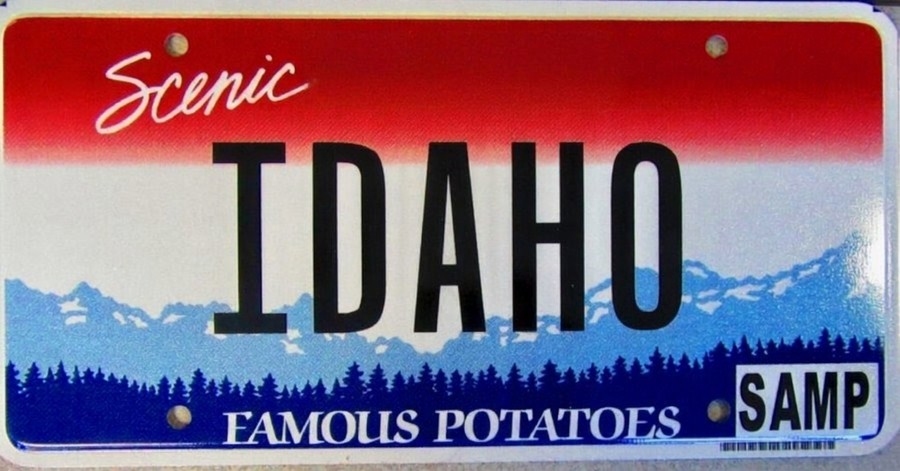
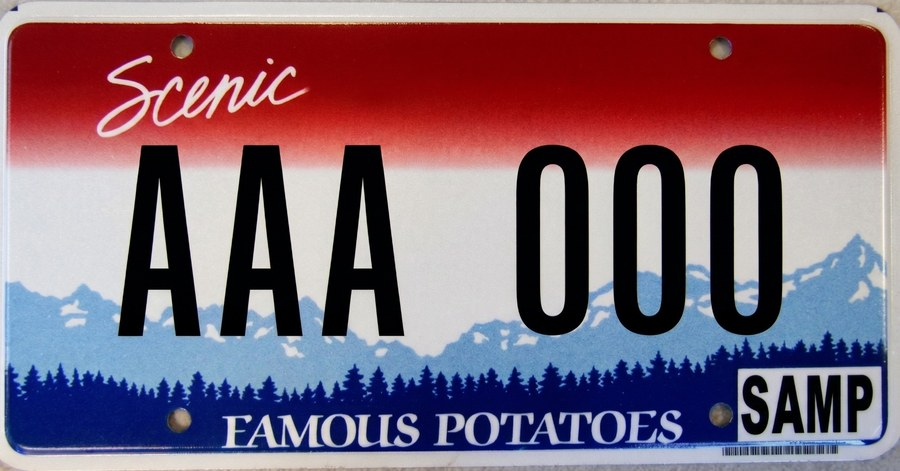
[nojira] Plate quiz: remove duplicate plate variants, add yellow New Mexico and red Colorado plates, and replace low-quality Idaho, California, Texas, Indiana and Wyoming images.

diff --git a/plates/data.js b/plates/data.js
@@ -3,22 +3,20 @@ const PLATES = [
   {"state": "Alabama", "img": "img/alabama-2.jpg", "credit": "Plate image from LearnableMeta map \"A Learnable USA - License Plates\" (Vincent Skerved; images/descriptions from plonkit.net), license not stated, https://learnablemeta.com/maps/676c62e2f11f44713bb8a065 | Blurred image: generated from the image above (Gaussian blur)", "blurImg": "img/blur/alabama-2.jpg", "label": "Sweet Home Alabama", "nameless": "img/nl/alabama-2.jpg"},
   {"state": "Alaska", "img": "img/alaska.jpg", "credit": "Zcarstvnz, CC BY-SA 4.0, https://commons.wikimedia.org/wiki/File:Alaska_2020_License_Plate.jpg | Blurred image: generated from the image above (Gaussian blur)", "blurImg": "img/blur/alaska.jpg", "nameless": "img/nl/alaska.jpg", "primary": true},
   {"state": "Arizona", "img": "img/arizona.jpg", "credit": "SuperSonic337, CC0, https://commons.wikimedia.org/wiki/File:CWX9081.jpg | Blurred image: generated from the image above (Gaussian blur)", "blurImg": "img/blur/arizona.jpg", "label": "Current Grand Canyon State", "nameless": "img/nl/arizona.jpg", "primary": true},
-  {"state": "Arizona", "img": "img/arizona-2.jpg", "credit": "Dax44, CC BY 4.0, https://commons.wikimedia.org/wiki/File:2005_Arizona_License_Plate.png | Blurred image: generated from the image above (Gaussian blur)", "blurImg": "img/blur/arizona-2.jpg", "label": "2000s design", "nameless": "img/nl/arizona-2.jpg"},
   {"state": "Arkansas", "img": "img/arkansas.jpg", "credit": "SuperSonic337, CC0, https://commons.wikimedia.org/wiki/File:Arkansas_2011_license_plate.jpg | Blurred image: generated from the image above (Gaussian blur)", "blurImg": "img/blur/arkansas.jpg", "nameless": "img/nl/arkansas.jpg", "primary": true},
   {"state": "California", "img": "img/california.jpg", "credit": "Zcarstvnz, CC BY-SA 4.0, https://commons.wikimedia.org/wiki/File:California_2018_License_Plate.jpg | Blurred image: generated from the image above (Gaussian blur)", "blurImg": "img/blur/california.jpg", "label": "Current standard", "nameless": "img/nl/california.jpg", "primary": true},
   {"state": "California", "img": "img/california-2.jpg", "credit": "State of California DMV, Public domain, https://commons.wikimedia.org/wiki/File:August_1985_Californian_license_plate,_2BJX782.png | Blurred image: generated from the image above (Gaussian blur)", "blurImg": "img/blur/california-2.jpg", "label": "1980s design", "nameless": "img/nl/california-2.jpg"},
   {"state": "California", "img": "img/california-3.jpg", "credit": "Jeff d kirby, CC BY-SA 4.0, https://commons.wikimedia.org/wiki/File:California_2016_legacy_license_plate.jpg | Blurred image: generated from the image above (Gaussian blur)", "blurImg": "img/blur/california-3.jpg", "label": "Legacy black", "nameless": "img/nl/california-3.jpg"},
   {"state": "Colorado", "img": "img/colorado.jpg", "credit": "CA81enjoyer, CC BY 4.0, https://commons.wikimedia.org/wiki/File:Colorado_2018_License_Plate.jpg | Blurred image: generated from the image above (Gaussian blur)", "blurImg": "img/blur/colorado.jpg", "label": "Mountain design", "nameless": "img/nl/colorado.jpg", "primary": true},
   {"state": "Colorado", "img": "img/colorado-2.jpg", "credit": "Author not listed, CC0, https://commons.wikimedia.org/wiki/File:Colorado%27s_Sesquicentennial_Over_13_License_Plate_Winner.png | Blurred image: generated from the image above (Gaussian blur)", "blurImg": "img/blur/colorado-2.jpg", "label": "2026 Sesquicentennial", "nameless": "img/nl/colorado-2.jpg"},
+  {"state": "Colorado", "img": "img/colorado-3.jpg", "credit": "Bench999, CC0, https://commons.wikimedia.org/wiki/File:Colorado_Apportioned_Truck_license_plate.png | Blurred image: generated from the image above (Gaussian blur) | Edited: the state name was removed from the nameless version.", "blurImg": "img/blur/colorado-3.jpg", "label": "Red commercial (apportioned truck)", "nameless": "img/nl/colorado-3.jpg"},
   {"state": "Connecticut", "img": "img/connecticut.jpg", "credit": "David Nicholson, CC BY-SA 4.0, https://commons.wikimedia.org/wiki/File:2013_Connecticut_license_plate.jpg | Blurred image: generated from the image above (Gaussian blur)", "blurImg": "img/blur/connecticut.jpg", "nameless": "img/nl/connecticut.jpg", "primary": true},
   {"state": "Delaware", "img": "img/delaware.jpg", "credit": "Lieutenant Ramathorn, Public domain, https://commons.wikimedia.org/wiki/File:2013_Delaware_license_plate_122222.jpg | Blurred image: generated from the image above (Gaussian blur)", "blurImg": "img/blur/delaware.jpg", "nameless": "img/nl/delaware.jpg", "primary": true},
-  {"state": "Florida", "img": "img/florida.jpg", "credit": "Dickelbers, CC BY-SA 4.0, https://commons.wikimedia.org/wiki/File:2018_Florida_license_plate_IYT_E32.jpg | Blurred image: generated from the image above (Gaussian blur)", "blurImg": "img/blur/florida.jpg", "label": "MYFLORIDA.COM design", "nameless": "img/nl/florida.jpg"},
-  {"state": "Florida", "img": "img/florida-2.jpg", "credit": "Spixelic, CC0, https://commons.wikimedia.org/wiki/File:Florida_License_Plate_2026-present.jpg | Blurred image: generated from the image above (Gaussian blur)", "blurImg": "img/blur/florida-2.jpg", "label": "2026 design", "nameless": "img/nl/florida-2.jpg", "primary": true},
+  {"state": "Florida", "img": "img/florida.jpg", "credit": "Dickelbers, CC BY-SA 4.0, https://commons.wikimedia.org/wiki/File:2018_Florida_license_plate_IYT_E32.jpg | Blurred image: generated from the image above (Gaussian blur)", "blurImg": "img/blur/florida.jpg", "label": "MYFLORIDA.COM design", "nameless": "img/nl/florida.jpg", "primary": true},
   {"state": "Florida", "img": "img/florida-3.jpg", "credit": "Zulspl8page, CC BY-SA 4.0, https://commons.wikimedia.org/wiki/File:2006_Florida_license_plate_W71_GJF.jpg | Blurred image: generated from the image above (Gaussian blur)", "blurImg": "img/blur/florida-3.jpg", "label": "2000s orange design", "nameless": "img/nl/florida-3.jpg"},
   {"state": "Georgia", "img": "img/georgia.jpg", "credit": "Popcornpal, Public domain, https://commons.wikimedia.org/wiki/File:2024_Georgian_license_plate_(TDA9755).jpg | Blurred image: generated from the image above (Gaussian blur)", "blurImg": "img/blur/georgia.jpg", "label": "Current standard", "nameless": "img/nl/georgia.jpg", "primary": true},
   {"state": "Georgia", "img": "img/georgia-2.jpg", "credit": "Jaycarlcooper, CC BY-SA 3.0, https://commons.wikimedia.org/wiki/File:2011_Georgia_license_plate_BGY_2780.jpg | Blurred image: generated from the image above (Gaussian blur)", "blurImg": "img/blur/georgia-2.jpg", "label": "Georgia.gov (2010s)", "nameless": "img/nl/georgia-2.jpg"},
-  {"state": "Hawaii", "img": "img/hawaii.jpg", "credit": "Zcarstvnz, CC BY-SA 4.0, https://commons.wikimedia.org/wiki/File:Hawaii_2015_license_plate.png | Blurred image: generated from the image above (Gaussian blur)", "blurImg": "img/blur/hawaii.jpg", "label": "Rainbow", "nameless": "img/nl/hawaii.jpg"},
-  {"state": "Hawaii", "img": "img/hawaii-2.jpg", "credit": "Hawaiian DMV, Public domain, https://commons.wikimedia.org/wiki/File:Hawaiian_sample_license_plate,_2025.png | Blurred image: generated from the image above (Gaussian blur)", "blurImg": "img/blur/hawaii-2.jpg", "label": "2025 design", "nameless": "img/nl/hawaii-2.jpg", "primary": true},
+  {"state": "Hawaii", "img": "img/hawaii.jpg", "credit": "Hawaiian DMV, Public domain, https://commons.wikimedia.org/wiki/File:Hawaiian_sample_license_plate,_2025.png | Blurred image: generated from the image above (Gaussian blur)", "blurImg": "img/blur/hawaii.jpg", "label": "2025 design", "nameless": "img/nl/hawaii.jpg", "primary": true},
   {"state": "Idaho", "img": "img/idaho.jpg", "credit": "IDT, CC0, https://commons.wikimedia.org/wiki/File:Idaho_Sample_Plate.jpg | Blurred image: generated from the image above (Gaussian blur)", "blurImg": "img/blur/idaho.jpg", "nameless": "img/nl/idaho.jpg", "primary": true},
   {"state": "Illinois", "img": "img/illinois.jpg", "credit": "SaltyCruton, CC0, https://commons.wikimedia.org/wiki/File:2017_Illinois_License_Plate.png | Blurred image: generated from the image above (Gaussian blur)", "blurImg": "img/blur/illinois.jpg", "label": "Current Land of Lincoln", "nameless": "img/nl/illinois.jpg", "primary": true},
   {"state": "Illinois", "img": "img/illinois-2.jpg", "credit": "Tholle33, CC0, https://commons.wikimedia.org/wiki/File:Illinois_2017_Six_Digit_License_Plate.jpg | Blurred image: generated from the image above (Gaussian blur)", "blurImg": "img/blur/illinois-2.jpg", "label": "Older With God design", "nameless": "img/nl/illinois-2.jpg"},
@@ -49,9 +47,8 @@ const PLATES = [
   {"state": "New Jersey", "img": "img/new-jersey.jpg", "credit": "Thankful to be me 515, CC BY-SA 4.0, https://commons.wikimedia.org/wiki/File:New_Jersey_license_plate_2014.jpg | Blurred image: generated from the image above (Gaussian blur)", "blurImg": "img/blur/new-jersey.jpg", "label": "Garden State", "nameless": "img/nl/new-jersey.jpg", "primary": true},
   {"state": "New Jersey", "img": "img/new-jersey-2.jpg", "credit": "Famartin, CC BY-SA 4.0, https://commons.wikimedia.org/wiki/File:2024-12-30_11_24_41_A_very_old_New_Jersey_license_plate_on_a_car_along_Perry_Drive_in_the_Mountainview_section_of_Ewing_Township,_Mercer_County,_New_Jersey.jpg | Blurred image: generated from the image above (Gaussian blur)", "blurImg": "img/blur/new-jersey-2.jpg", "label": "Older cream design", "nameless": "img/nl/new-jersey-2.jpg"},
   {"state": "New Mexico", "img": "img/new-mexico.jpg", "credit": "DodgeCaravan17, CC BY-SA 4.0, https://commons.wikimedia.org/wiki/File:2019_New_Mexico_License_Plate.jpg | Blurred image: generated from the image above (Gaussian blur)", "blurImg": "img/blur/new-mexico.jpg", "label": "Land of Enchantment", "nameless": "img/nl/new-mexico.jpg", "primary": true},
-  {"state": "New Mexico", "img": "img/new-mexico-2.jpg", "credit": "B.edit24, CC BY-SA 4.0, https://commons.wikimedia.org/wiki/File:2012_New_Mexico_centennial_plate.jpg | Blurred image: generated from the image above (Gaussian blur)", "blurImg": "img/blur/new-mexico-2.jpg", "label": "Centennial 2012", "nameless": "img/nl/new-mexico-2.jpg"},
-  {"state": "New York", "img": "img/new-york.jpg", "credit": "Supraphonic, CC BY-SA 3.0, https://commons.wikimedia.org/wiki/File:New_York_plate_4-2010.jpg | Blurred image: generated from the image above (Gaussian blur)", "blurImg": "img/blur/new-york.jpg", "label": "Yellow/blue (2010s)", "nameless": "img/nl/new-york.jpg"},
-  {"state": "New York", "img": "img/new-york-2.jpg", "credit": "BuickCenturyDriver, Public domain, https://commons.wikimedia.org/wiki/File:New_York_Empire_Gold_License_Plate.jpg | Blurred image: generated from the image above (Gaussian blur)", "blurImg": "img/blur/new-york-2.jpg", "label": "Empire Gold (2020s)", "nameless": "img/nl/new-york-2.jpg", "primary": true},
+  {"state": "New Mexico", "img": "img/new-mexico-2.jpg", "credit": "Walser.FL, CC0, https://commons.wikimedia.org/wiki/File:2025_New_Mexico_RV_License_Plate.jpg | Blurred image: generated from the image above (Gaussian blur) | Edited: the state name was removed from the plate and the registration sticker in the nameless version.", "blurImg": "img/blur/new-mexico-2.jpg", "label": "Yellow yucca (1991 design)", "nameless": "img/nl/new-mexico-2.jpg"},
+  {"state": "New York", "img": "img/new-york.jpg", "credit": "Supraphonic, CC BY-SA 3.0, https://commons.wikimedia.org/wiki/File:New_York_plate_4-2010.jpg | Blurred image: generated from the image above (Gaussian blur)", "blurImg": "img/blur/new-york.jpg", "label": "Empire Gold", "nameless": "img/nl/new-york.jpg", "primary": true},
   {"state": "North Carolina", "img": "img/north-carolina.jpg", "credit": "Jettacar, CC BY-SA 4.0, https://commons.wikimedia.org/wiki/File:2020_North_Carolina_License_Plate.png | Blurred image: generated from the image above (Gaussian blur)", "blurImg": "img/blur/north-carolina.jpg", "nameless": "img/nl/north-carolina.jpg", "primary": true},
   {"state": "North Dakota", "img": "img/north-dakota.jpg", "credit": "SuperSonic337, CC0, https://commons.wikimedia.org/wiki/File:North_Dakota_license_plate.jpg | Blurred image: generated from the image above (Gaussian blur)", "blurImg": "img/blur/north-dakota.jpg", "label": "Legendary", "nameless": "img/nl/north-dakota.jpg", "primary": true},
   {"state": "North Dakota", "img": "img/north-dakota-2.jpg", "credit": "Zakker82, CC BY 3.0, https://commons.wikimedia.org/wiki/File:NDLicensePlate2.jpg | Blurred image: generated from the image above (Gaussian blur)", "blurImg": "img/blur/north-dakota-2.jpg", "label": "Centennial 1989", "nameless": "img/nl/north-dakota-2.jpg"},
@@ -63,7 +60,6 @@ const PLATES = [
   {"state": "Oregon", "img": "img/oregon.jpg", "credit": "Plate image from LearnableMeta map \"A Learnable USA - License Plates\" (Vincent Skerved; images/descriptions from plonkit.net), license not stated, https://learnablemeta.com/maps/676c62e2f11f44713bb8a065 | Blurred image: generated from the image above (Gaussian blur)", "blurImg": "img/blur/oregon.jpg", "label": "Current standard", "nameless": "img/nl/oregon.jpg", "primary": true},
   {"state": "Oregon", "img": "img/oregon-2.jpg", "credit": "PDXPhotoGuy84, CC BY-SA 4.0, https://commons.wikimedia.org/wiki/File:Oregon_2025_Sesquicentennial_Passenger_License_Plate_with_0A_Prefix.jpg | Blurred image: generated from the image above (Gaussian blur)", "blurImg": "img/blur/oregon-2.jpg", "label": "Pacific Wonderland", "nameless": "img/nl/oregon-2.jpg"},
   {"state": "Pennsylvania", "img": "img/pennsylvania.jpg", "credit": "Dave Frankel, Public domain, https://commons.wikimedia.org/wiki/File:2017_Pennsylvanian_license_plate.png | Blurred image: generated from the image above (Gaussian blur)", "blurImg": "img/blur/pennsylvania.jpg", "label": "Current visitPA design", "nameless": "img/nl/pennsylvania.jpg", "primary": true},
-  {"state": "Pennsylvania", "img": "img/pennsylvania-2.jpg", "credit": "Rouge Furby, CC BY-SA 3.0, https://commons.wikimedia.org/wiki/File:2005_Sample_Pennsylvania_License_Plate.jpg | Blurred image: generated from the image above (Gaussian blur)", "blurImg": "img/blur/pennsylvania-2.jpg", "label": "2000s sample", "nameless": "img/nl/pennsylvania-2.jpg"},
   {"state": "Rhode Island", "img": "img/rhode-island.jpg", "credit": "Zcarstvnz, CC BY-SA 4.0, https://commons.wikimedia.org/wiki/File:Rhode_Island_2013_License_Plate.jpg | Blurred image: generated from the image above (Gaussian blur)", "blurImg": "img/blur/rhode-island.jpg", "label": "Ocean State", "nameless": "img/nl/rhode-island.jpg"},
   {"state": "Rhode Island", "img": "img/rhode-island-2.jpg", "credit": "Mikeyspeed7, CC0, https://commons.wikimedia.org/wiki/File:License_Plate_of_Rhode_Island.png | Blurred image: generated from the image above (Gaussian blur)", "blurImg": "img/blur/rhode-island-2.jpg", "label": "Wave design", "nameless": "img/nl/rhode-island-2.jpg", "primary": true},
   {"state": "South Carolina", "img": "img/south-carolina.jpg", "credit": "Eccojams, CC0, https://commons.wikimedia.org/wiki/File:2016-present_South_Carolina_license_plate_In_God_We_Trust.png | Blurred image: generated from the image above (Gaussian blur)", "blurImg": "img/blur/south-carolina.jpg", "label": "In God We Trust", "nameless": "img/nl/south-carolina.jpg", "primary": true},
@@ -74,21 +70,19 @@ const PLATES = [
   {"state": "Tennessee", "img": "img/tennessee.jpg", "credit": "Mhuy222, CC BY-SA 4.0, https://commons.wikimedia.org/wiki/File:2022_Tennessee_License_Plate_Base_-_Standard_Automobile.png | Blurred image: generated from the image above (Gaussian blur)", "blurImg": "img/blur/tennessee.jpg", "label": "Current standard", "nameless": "img/nl/tennessee.jpg", "primary": true},
   {"state": "Tennessee", "img": "img/tennessee-2.jpg", "credit": "PlateNerd, CC BY-SA 4.0, https://commons.wikimedia.org/wiki/File:2021_Tennessee_base_plate.jpg | Blurred image: generated from the image above (Gaussian blur)", "blurImg": "img/blur/tennessee-2.jpg", "label": "Older script design", "nameless": "img/nl/tennessee-2.jpg"},
   {"state": "Texas", "img": "img/texas.jpg", "credit": "Dickelbers, CC BY-SA 4.0, https://commons.wikimedia.org/wiki/File:2012_Texas_license_plate_JXM_3687.jpg | Blurred image: generated from the image above (Gaussian blur)", "blurImg": "img/blur/texas.jpg", "label": "Current white design", "nameless": "img/nl/texas.jpg", "primary": true},
-  {"state": "Texas", "img": "img/texas-2.jpg", "credit": "AllenLow, CC BY-SA 4.0, https://commons.wikimedia.org/wiki/File:Texas_2005_license_plate.jpg | Blurred image: generated from the image above (Gaussian blur)", "blurImg": "img/blur/texas-2.jpg", "label": "2000s Space Shuttle", "nameless": "img/nl/texas-2.jpg"},
+  {"state": "Texas", "img": "img/texas-2.jpg", "credit": "AllenLow, CC BY-SA 4.0, https://commons.wikimedia.org/wiki/File:Texas_2005_license_plate.jpg | Blurred image: generated from the image above (Gaussian blur) | Edited: straightened and cleaned up; the state name was removed from the nameless version.", "blurImg": "img/blur/texas-2.jpg", "label": "2000s Space Shuttle", "nameless": "img/nl/texas-2.jpg"},
   {"state": "Texas", "img": "img/texas-3.jpg", "credit": "SuperSonic337, CC0, https://commons.wikimedia.org/wiki/File:Texas_2009-12_license_plate.jpg | Blurred image: generated from the image above (Gaussian blur)", "blurImg": "img/blur/texas-3.jpg", "label": "2010s Lone Star", "nameless": "img/nl/texas-3.jpg"},
   {"state": "Utah", "img": "img/utah.jpg", "credit": "Pickn528, CC BY-SA 4.0, https://commons.wikimedia.org/wiki/File:2017_Utah_License_Plate.jpg | Blurred image: generated from the image above (Gaussian blur)", "blurImg": "img/blur/utah.jpg", "label": "Life Elevated", "nameless": "img/nl/utah.jpg", "primary": true},
   {"state": "Utah", "img": "img/utah-2.jpg", "credit": "Dickelbers, CC BY-SA 4.0, https://commons.wikimedia.org/wiki/File:Utah_2018_license_plate_(USA).jpg | Blurred image: generated from the image above (Gaussian blur)", "blurImg": "img/blur/utah-2.jpg", "label": "Greatest Snow on Earth", "nameless": "img/nl/utah-2.jpg"},
   {"state": "Vermont", "img": "img/vermont.jpg", "credit": "Zcarstvnz, CC BY-SA 4.0, https://commons.wikimedia.org/wiki/File:Vermont_2017_License_Plate.jpg | Blurred image: generated from the image above (Gaussian blur)", "blurImg": "img/blur/vermont.jpg", "nameless": "img/nl/vermont.jpg", "primary": true},
   {"state": "Virginia", "img": "img/virginia.jpg", "credit": "Virginian DMV, Public domain, https://commons.wikimedia.org/wiki/File:Virginia_2016_License_Plate.jpg | Blurred image: generated from the image above (Gaussian blur)", "blurImg": "img/blur/virginia.jpg", "label": "Current standard", "nameless": "img/nl/virginia.jpg", "primary": true},
   {"state": "Virginia", "img": "img/virginia-2.jpg", "credit": "Drake317, Public domain, https://commons.wikimedia.org/wiki/File:VA_400_years_plate_with_blue_VIRGINIA_from_my_own_collection.png | Blurred image: generated from the image above (Gaussian blur)", "blurImg": "img/blur/virginia-2.jpg", "label": "2007 400th Anniversary", "nameless": "img/nl/virginia-2.jpg"},
-  {"state": "Washington", "img": "img/washington.jpg", "credit": "JBAkin, CC BY-SA 4.0, https://commons.wikimedia.org/wiki/File:2017_Washington_Plate.jpg | Blurred image: generated from the image above (Gaussian blur)", "blurImg": "img/blur/washington.jpg", "label": "Embossed (2010s)", "nameless": "img/nl/washington.jpg"},
-  {"state": "Washington", "img": "img/washington-2.jpg", "credit": "Jaycarlcooper, CC BY-SA 3.0, https://commons.wikimedia.org/wiki/File:Washington_2005_license_plate_-_522-SEP.jpg | Blurred image: generated from the image above (Gaussian blur)", "blurImg": "img/blur/washington-2.jpg", "label": "2000s design", "nameless": "img/nl/washington-2.jpg"},
+  {"state": "Washington", "img": "img/washington.jpg", "credit": "JBAkin, CC BY-SA 4.0, https://commons.wikimedia.org/wiki/File:2017_Washington_Plate.jpg | Blurred image: generated from the image above (Gaussian blur)", "blurImg": "img/blur/washington.jpg", "label": "Evergreen State (embossed)", "nameless": "img/nl/washington.jpg", "primary": true},
   {"state": "Washington", "img": "img/washington-3.jpg", "credit": "Washiwiki, CC BY-SA 4.0, https://commons.wikimedia.org/wiki/File:Washington_2002_license_plate_-_97795-U.jpg | Blurred image: generated from the image above (Gaussian blur)", "blurImg": "img/blur/washington-3.jpg", "label": "Script wordmark (2002)", "nameless": "img/nl/washington-3.jpg"},
-  {"state": "Washington", "img": "img/washington-4.jpg", "credit": "Reagan Dodd, CC0, https://commons.wikimedia.org/wiki/File:CPU4704_Unembossed_Washington_License_Plate.jpg | Blurred image: generated from the image above (Gaussian blur)", "blurImg": "img/blur/washington-4.jpg", "label": "Current standard (un-embossed, 2024)", "primary": true, "nameless": "img/nl/washington-4.jpg"},
   {"state": "West Virginia", "img": "img/west-virginia.jpg", "credit": "Corb Moister of Norwich, Vermont, Public domain, https://commons.wikimedia.org/wiki/File:West_Virginian_license_plate,_c._2021.jpg | Blurred image: generated from the image above (Gaussian blur)", "blurImg": "img/blur/west-virginia.jpg", "label": "Current standard", "nameless": "img/nl/west-virginia.jpg", "primary": true},
   {"state": "West Virginia", "img": "img/west-virginia-2.jpg", "credit": "Dolan 2000, Public domain, https://commons.wikimedia.org/wiki/File:2008_West_Virginia_license_plate_-_NAD_434.jpg | Blurred image: generated from the image above (Gaussian blur)", "blurImg": "img/blur/west-virginia-2.jpg", "label": "2008 design", "nameless": "img/nl/west-virginia-2.jpg"},
   {"state": "Wisconsin", "img": "img/wisconsin.jpg", "credit": "GDog507, CC BY 4.0, https://commons.wikimedia.org/wiki/File:2024_Wisconsin_Passenger_AXS-2802.jpg | Blurred image: generated from the image above (Gaussian blur)", "blurImg": "img/blur/wisconsin.jpg", "label": "Current standard", "nameless": "img/nl/wisconsin.jpg", "primary": true},
   {"state": "Wisconsin", "img": "img/wisconsin-2.jpg", "credit": "Jtplates, CC BY-SA 4.0, https://commons.wikimedia.org/wiki/File:WI_99_Narrow_die.jpg | Blurred image: generated from the image above (Gaussian blur)", "blurImg": "img/blur/wisconsin-2.jpg", "label": "1999 design", "nameless": "img/nl/wisconsin-2.jpg"},
   {"state": "Wyoming", "img": "img/wyoming.jpg", "credit": "Plate image from LearnableMeta map \"A Learnable USA - License Plates\" (Vincent Skerved; images/descriptions from plonkit.net), license not stated, https://learnablemeta.com/maps/676c62e2f11f44713bb8a065 | Blurred image: generated from the image above (Gaussian blur)", "blurImg": "img/blur/wyoming.jpg", "label": "Bucking horse", "nameless": "img/nl/wyoming.jpg", "primary": true},
-  {"state": "Wyoming", "img": "img/wyoming-2.jpg", "credit": "Plate image from LearnableMeta map \"A Learnable USA - License Plates\" (Vincent Skerved; images/descriptions from plonkit.net), license not stated, https://learnablemeta.com/maps/676c62e2f11f44713bb8a065 | Blurred image: generated from the image above (Gaussian blur)", "blurImg": "img/blur/wyoming-2.jpg", "label": "2010s design", "nameless": "img/nl/wyoming-2.jpg"},
+  {"state": "Wyoming", "img": "img/wyoming-2.jpg", "credit": "Jerry \"Woody\" (woody1778a on Flickr), all rights reserved, used for a non-commercial learning quiz, https://www.flickr.com/photos/woodysworld1778/18673989266/ | Blurred image: generated from the image above (Gaussian blur) | Edited: cropped to the plate; the state name was removed from the nameless version.", "blurImg": "img/blur/wyoming-2.jpg", "label": "Teton Range (2008-2016)", "nameless": "img/nl/wyoming-2.jpg"},
 ];
